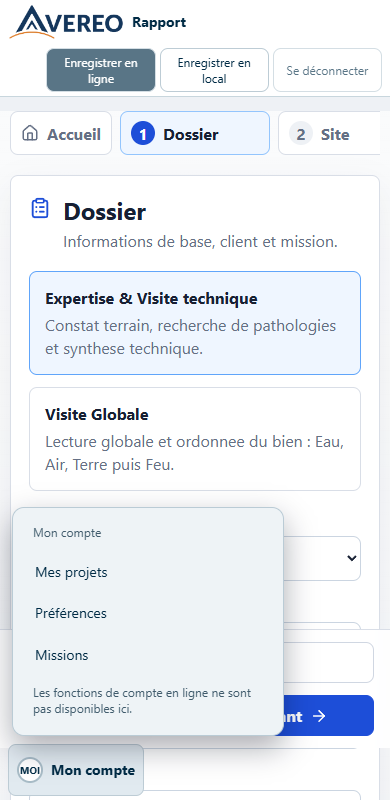
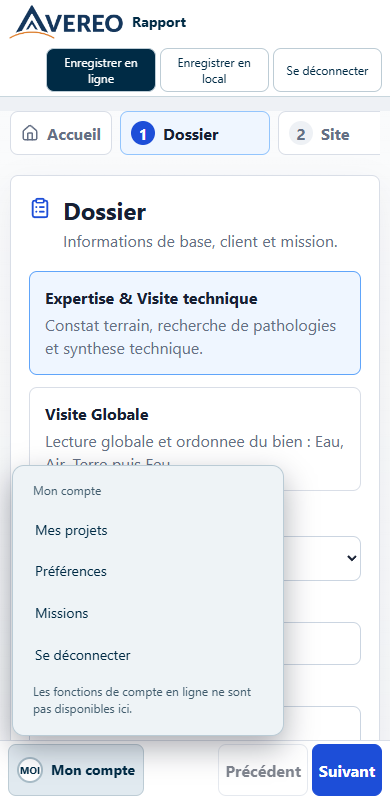
fix(rapport): réunir le compte et la navigation sur un pied de page

diff --git a/architecture-v1/avereo-app-rapport/frontend/src/App.jsx b/architecture-v1/avereo-app-rapport/frontend/src/App.jsx
@@ -2067,11 +2067,6 @@ function ReportWizard({
 
   return (
     <div className="screen">
-      <ReportAccountMenu onLocalCopy={handleExportJson} onHome={returnToHome} onLogout={async (event) => {
-        event.preventDefault();
-        try { await saveDraft(report); window.location.assign('/connect/logout.php'); }
-        catch { notify('Brouillon non enregistré. Exportez une copie JSON avant de vous déconnecter.'); }
-      }} />
       <main className="wizard-layout">
         <StepNav steps={steps} currentStep={currentStep} setStep={setCurrentStep} onHome={returnToHome} />
         <div className="wizard-grid">
@@ -2114,20 +2109,19 @@ function ReportWizard({
       </main>
 
       <footer className="action-bar">
-        <button className="button ghost" type="button" onClick={handleSave}>
-          <Save size={18} />
-          Enregistrer
-        </button>
-        <div>
+        <ReportAccountMenu onLocalCopy={handleExportJson} onHome={returnToHome} onLogout={async (event) => {
+          event.preventDefault();
+          try { await saveDraft(report); window.location.assign('/connect/logout.php'); }
+          catch { notify('Brouillon non enregistré. Exportez une copie JSON avant de vous déconnecter.'); }
+        }} />
+        <nav aria-label="Navigation entre les étapes">
           <button className="button ghost" type="button" onClick={goPrev} disabled={currentStep === 0}>
-            <ArrowLeft size={18} />
-            Precedent
+            <ArrowLeft size={18} aria-hidden="true" /> Précédent
           </button>
           <button className="button primary" type="button" onClick={goNext} disabled={currentStep === steps.length - 1}>
-            Suivant
-            <ArrowRight size={18} />
+            Suivant <ArrowRight size={18} aria-hidden="true" />
           </button>
-        </div>
+        </nav>
       </footer>
 
       <input ref={fileInputRef} type="file" accept="application/json" className="visually-hidden" onChange={onImportFile} />

diff --git a/architecture-v1/avereo-app-rapport/frontend/src/styles.css b/architecture-v1/avereo-app-rapport/frontend/src/styles.css
@@ -1335,23 +1335,31 @@ img {
 
 .action-bar {
   position: fixed;
-  left: 0;
-  right: 0;
-  bottom: 52px;
+  inset: auto 0 0;
   z-index: 30;
   display: flex;
+  justify-content: flex-end;
   align-items: center;
-  justify-content: space-between;
-  gap: 12px;
-  padding: 12px clamp(16px, 4vw, 36px);
+  padding: 3px max(8px, env(safe-area-inset-right)) max(4px, env(safe-area-inset-bottom)) 8px;
   border-top: 1px solid #d9dee7;
-  background: rgba(255, 255, 255, 0.94);
-  backdrop-filter: blur(10px);
+  background: #fff;
 }
 
-.action-bar > div {
-  display: flex;
-  gap: 10px;
+.action-bar nav { display: flex; gap: 8px; }
+.action-bar .button { min-height: 44px; white-space: nowrap; }
+
+@media (max-width: 600px) {
+  .action-bar .button { min-height: 52px; }
+}
+
+@media (max-width: 440px) {
+  .action-bar nav { gap: 4px; }
+  .action-bar .button { padding-inline: 6px; }
+  .action-bar .button svg { display: none; }
+}
+
+@media print {
+  .action-bar { display: none; }
 }
 
 .modal-backdrop,
@@ -1617,22 +1625,19 @@ img {
   .cadastre-box,
   .online-panel,
   .risk-summary-header,
-  .observation-phase-heading,
-  .action-bar {
+  .observation-phase-heading {
     align-items: stretch;
     flex-direction: column;
   }
 
   .toolbar,
   .online-controls,
-  .action-bar > div,
   .export-actions,
   .home-actions {
     justify-content: stretch;
   }
 
   .toolbar .button,
-  .action-bar .button,
   .export-actions .button,
   .home-actions .button {
     width: 100%;

diff --git a/architecture-v1/avereo-platform/docs/modele-affichage.md b/architecture-v1/avereo-platform/docs/modele-affichage.md
@@ -14,7 +14,7 @@ tags: [interface, administration, recette]
 
 Le logo horizontal officiel et le nom de l’application occupent le haut gauche. À droite, les commandes restent dans l’ordre **Enregistrer en ligne**, **Enregistrer en local**, **Se déconnecter**. Le bouton clair **Mon compte**, en bas à gauche, ouvre vers le haut le menu de profil, projets, préférences et missions. **Mes projets** continue d’ouvrir l’espace métier. Les commandes restent accessibles au clavier et disparaissent à l’impression. Un clic sur une action indisponible explique son état.
 
-[Aperçu sur ordinateur](illustrations/modele-bureau.png) · [Aperçu sur mobile](illustrations/modele-mobile.png). Les captures montrent un rapport fictif avec le menu ouvert.
+[Aperçu sur ordinateur](illustrations/modele-bureau.png) · [Aperçu sur mobile](illustrations/modele-mobile.png). Dans l’éditeur Rapport, Mon compte se trouve à gauche et Précédent et Suivant à droite, sur la même ligne. Les captures montrent ce pied de page avec le menu ouvert.
 
 ## Administration CONNECT
 

diff --git a/architecture-v1/avereo-app-rapport/docs/source-audit.md b/architecture-v1/avereo-app-rapport/docs/source-audit.md
@@ -336,3 +336,5 @@ Rapport affiche directement l’accueil ou le contenu de l’étape sous le band
 ## 9 novembre 2026 — Recherche et sélection
 
 Le contrôle HTTP utilise des comptes fictifs distincts, un dossier situé au-delà des cinquante derniers et des recherches littérales. Le contrôle Chrome vérifie le retour au panneau de confirmation, l’export, l’annulation et l’ouverture. [Parcours](../README.md#retrouver-un-rapport-en-ligne).
+
+Dans l’éditeur, le pied de page rassemble Mon compte, Précédent et Suivant sur une ligne. Les sauvegardes restent dans le bandeau supérieur.

diff --git a/architecture-v1/avereo-app-rapport/changelog.md b/architecture-v1/avereo-app-rapport/changelog.md
@@ -273,3 +273,7 @@ Le candidat local raccorde le dossier au module commun. [Adaptation et preuves](
 ## 2026-11-09 — Rapports sauvegardés
 
 L’accueil propose la recherche, un choix de cinq ou cinquante dossiers et la confirmation d’ouverture en tête de liste. [Utilisation](README.md#retrouver-un-rapport-en-ligne).
+
+## 2026-11-09 — Pied de page de l’éditeur
+
+Mon compte, Précédent et Suivant occupent une seule ligne. Les commandes de sauvegarde se trouvent en haut à droite.
